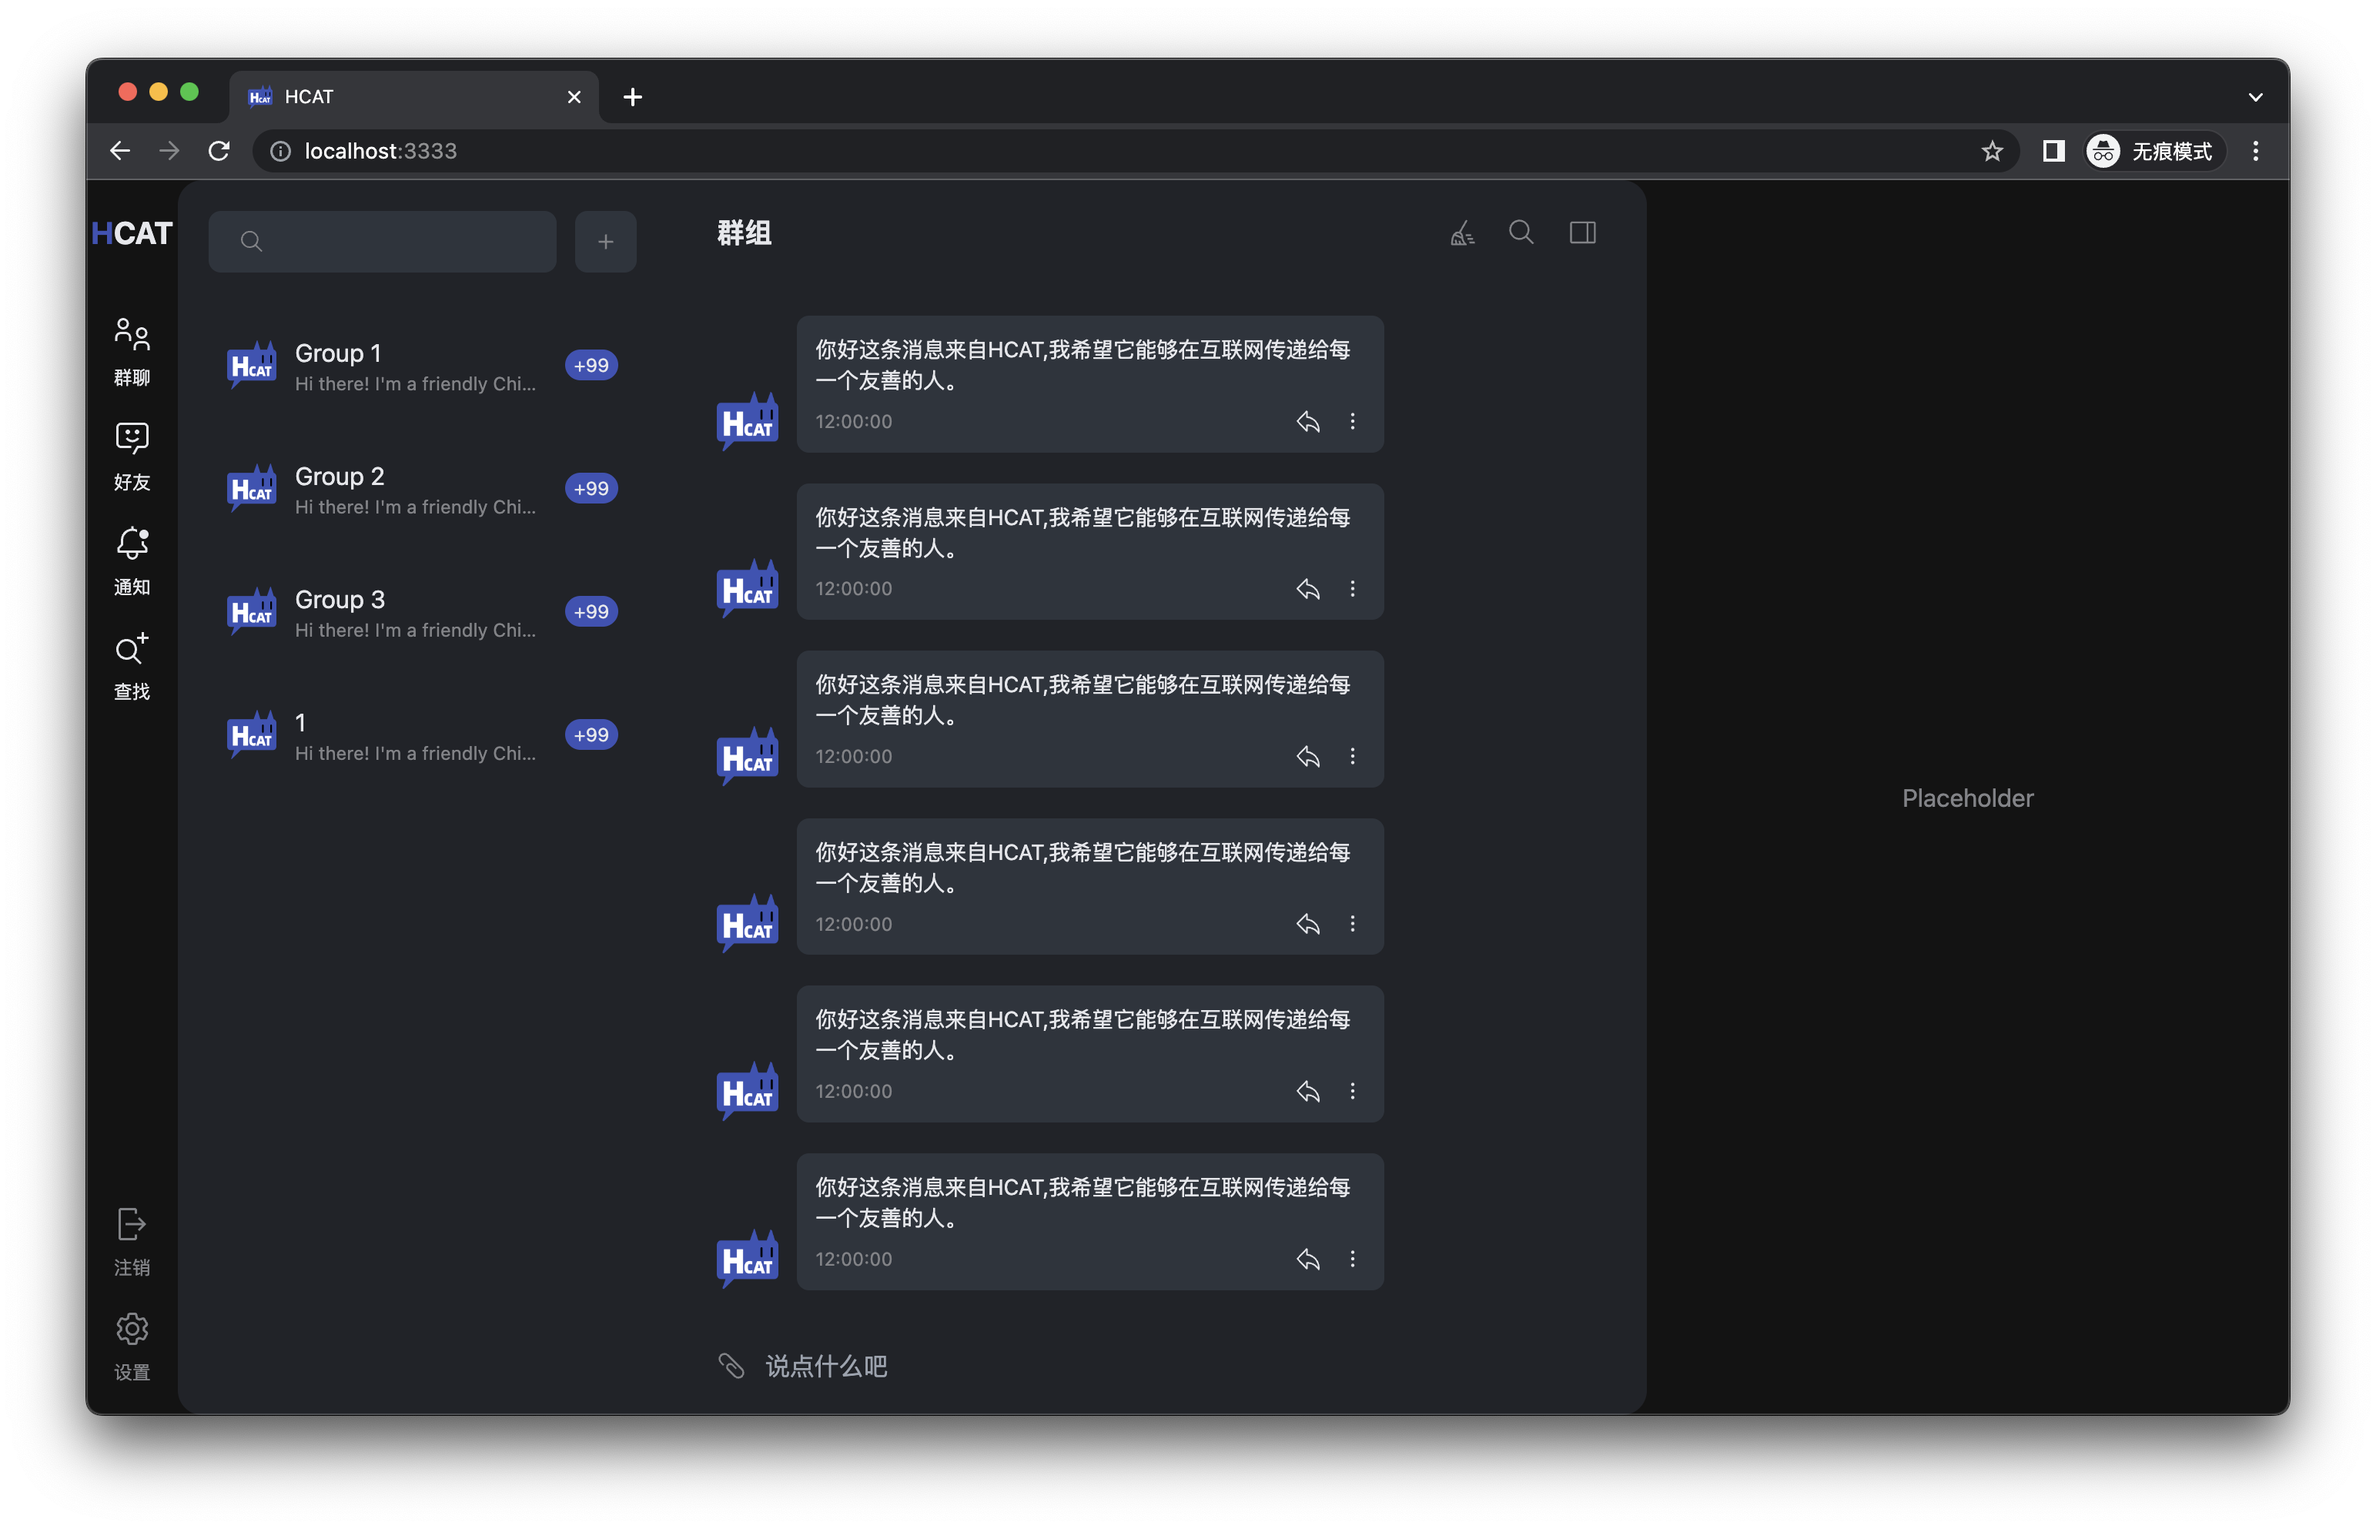
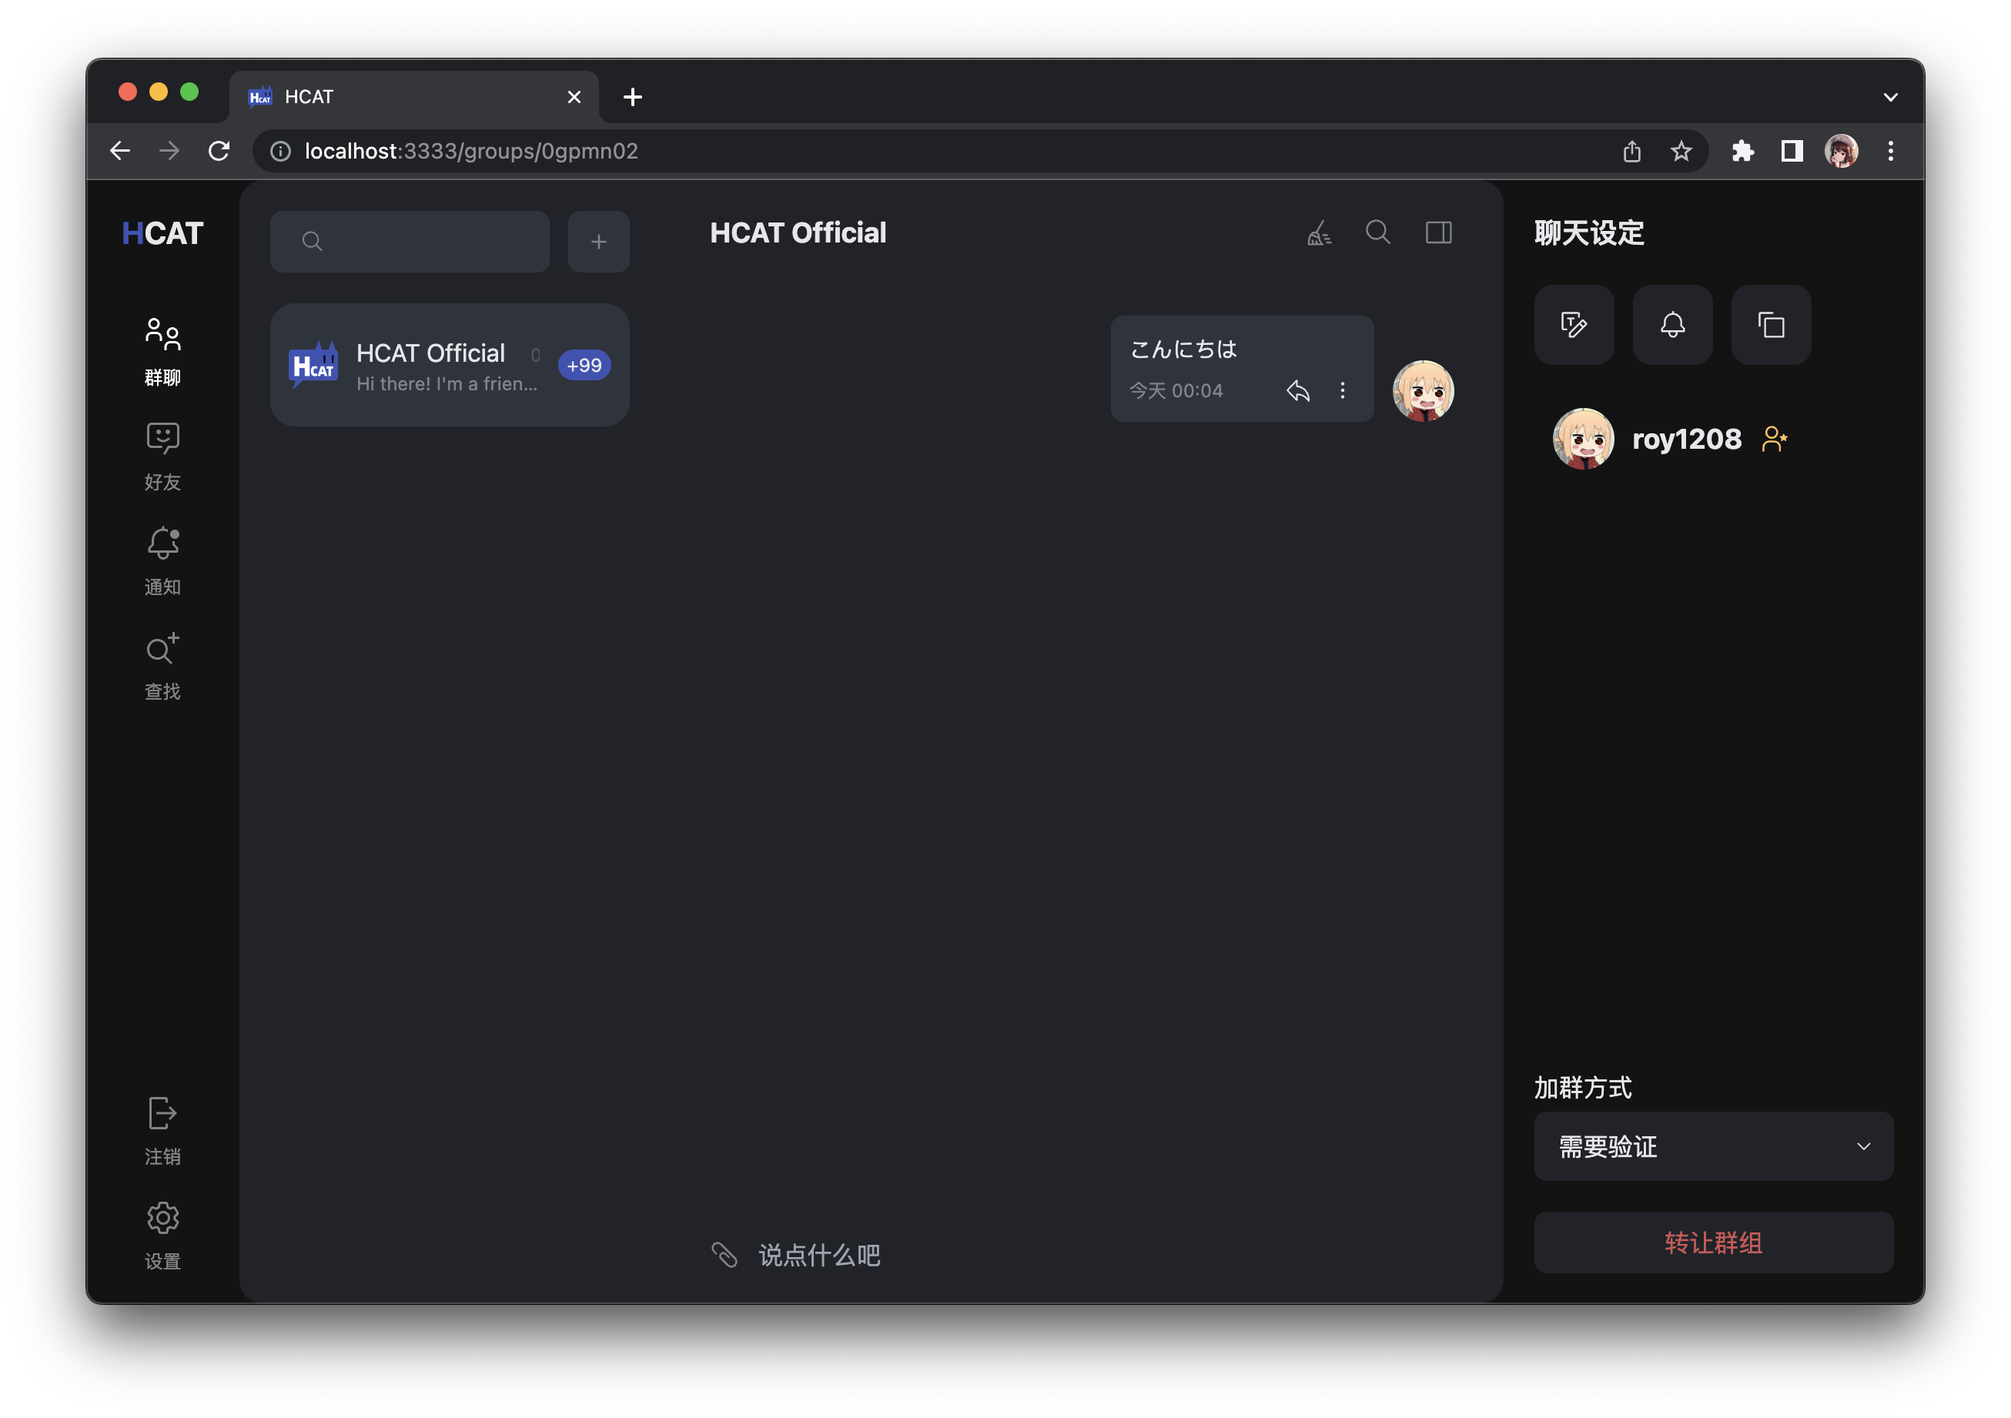
chore: add pages & update README.md

diff --git a/src/pages/index.vue b/src/pages/index.vue
@@ -8,6 +8,7 @@ interface SidebarButton {
 
 const store = useStore()
 const router = useRouter()
+const route = useRoute()
 const joinGroupID = $ref('')
 const addMessage = $ref('')
 const sideBarButtonList: SidebarButton[] = [
@@ -31,12 +32,9 @@ const sideBarButtonList: SidebarButton[] = [
 
 let joinGPModalVisible = $ref(false)
 
-onMounted(async () => {
-  // await store.authToken()
-  //   .catch((_) => {
-  //     alert('请先登录')
-  //     router.push('/login')
-  //   })
+onMounted(() => {
+  if (route.path.includes('groups'))
+    store.activeTab = 0
 })
 
 async function joinGroup() {
@@ -84,11 +82,16 @@ async function joinGroup() {
 function sideBarAction(index: number) {
   switch (index) {
     case 0:
+      store.activeTab = 0
       router.push('/groups')
       break
     case 1:
+      store.activeTab = 1
+      router.push('/friends')
       break
     case 2:
+      store.activeTab = 2
+      router.push('/notifications')
       break
     case 3:
       joinGPModalVisible = true
@@ -111,7 +114,7 @@ async function logout() {
         <span text-primary>H</span>CAT
       </button>
       <div flex-1 flex="~ col" gap-5>
-        <button v-for="item, index in sideBarButtonList" :key="item.text" flex="~ col" items-center text-xs gap-2 @click="sideBarAction(index)">
+        <button v-for="item, index in sideBarButtonList" :key="item.text" :class="[store.activeTab === index ? 'text-text-light' : 'text-text-secondary']" flex="~ col" items-center text-xs gap-2 @click="sideBarAction(index)">
           <div w-6 h-6 :class="item.icon" />
           <p>{{ item.text }}</p>
         </button>

diff --git a/src/stores/store.ts b/src/stores/store.ts
@@ -1,5 +1,5 @@
 import { defineStore } from 'pinia'
-import { authTokenApi, changeGroupSettingApi, createGroupApi, getGroupListApi, getGroupMembersApi, getGroupSettingApi, getGroupVerificationApi, getSelfPmsInGroupApi, joinGroupApi, loginApi, logoutApi, registerApi, sendGroupMsgApi } from '~/api'
+import { authTokenApi, changeGroupSettingApi, createGroupApi, getGroupListApi, getGroupMembersApi, getGroupSettingApi, getGroupVerificationApi, getSelfPmsInGroupApi, joinGroupApi, leaveGroupApi, loginApi, logoutApi, registerApi, sendGroupMsgApi } from '~/api'
 import { setCookie } from '~/composables'
 import type { ActiveChat, Group, GroupList, GroupMembers, GroupSetting } from '~/types'
 
@@ -44,6 +44,7 @@ export const useStore = defineStore('stores', {
     } as ActiveChat,
     groupList: {
     } as GroupList,
+    activeTab: -1,
   }),
   actions: {
     login(form: LoginForm) {
@@ -193,6 +194,17 @@ export const useStore = defineStore('stores', {
         execute({ data: { group_id: groupId } }).then((res) => {
           if (res.data.value.status === 'ok')
             resolve(res.data.value.data)
+          else
+            reject(res.data.value.message)
+        })
+      })
+    },
+    leaveGroup(groupId: string) {
+      return new Promise((resolve, reject) => {
+        const { execute } = leaveGroupApi()
+        execute({ data: { group_id: groupId } }).then((res) => {
+          if (res.data.value.status === 'ok')
+            resolve(res.data.value)
           else
             reject(res.data.value.message)
         })

diff --git a/src/pages/index/groups/[id].vue b/src/pages/index/groups/[id].vue
@@ -81,6 +81,17 @@ async function changeGroupSetting() {
     alert(err)
   })
 }
+
+async function leaveGroup() {
+  await store.leaveGroup(store.activeChat.id).then((res) => {
+    // alert('已退出群聊')
+    // store.getGroupList()
+    // store.activeChat.type = 'none'
+    // store.activeChat.id = ''
+  }).catch((err) => {
+    alert(err)
+  })
+}
 </script>
 
 <template>
@@ -157,11 +168,15 @@ async function changeGroupSetting() {
             </option>
           </select>
         </div>
+        <!-- <div v-if="(store.activeChat.permission === 'owner' || store.activeChat.permission === 'admin') && store.activeChat.setting?.verification_method === 'aw'" flex="~ col" gap-1>
+          <TextInput v-model="store.activeChat.setting!.question" label="问题" />
+          <TextInput v-model="store.activeChat.setting!.answer" label="答案" />
+        </div> -->
       </div>
       <button v-if="store.activeChat.permission === 'owner'" bg-back-gray w-full py-2 rounded-lg hover="bg-back-light" text-important>
         转让群组
       </button>
-      <button bg-back-gray w-full py-2 rounded-lg hover="bg-back-light" text-important>
+      <button v-if="store.activeChat.permission !== 'owner'" bg-back-gray w-full py-2 rounded-lg hover="bg-back-light" text-important @click="leaveGroup">
         离开群组
       </button>
     </div>

diff --git a/src/components/ChatBubble.vue b/src/components/ChatBubble.vue
@@ -10,7 +10,7 @@ withDefaults(defineProps<{
 
 <template>
   <div flex items-end gap-3 :class="{ 'flex-row-reverse': fromSelf }">
-    <img w-10 h-10 rounded-lg src="/logo.png">
+    <img w-10 h-10 rounded-full src="/avator.jpeg">
     <div bg-back-light p="x-3 y3" rounded-lg max-w="2/3" text="sm start" flex="~ col" gap-2>
       <div break-all>
         {{ message }}

diff --git a/src/pages/index/notifications.vue b/src/pages/index/notifications.vue
@@ -5,7 +5,13 @@
   <div w-full h-full flex="~ col" items-center justify-center gap2>
     <img src="/logo.png" w-20 h-20>
     <p text="2xl primary" font-bold>
-      G<span text-light>ROUPS</span>
+      N<span text-light>OTIFICATIONS</span>
     </p>
   </div>
 </template>
+
+<route lang="yaml">
+name: notification
+meta:
+  requiresAuth: true
+</route>

diff --git a/src/pages/index/friends.vue b/src/pages/index/friends.vue
@@ -5,7 +5,13 @@
   <div w-full h-full flex="~ col" items-center justify-center gap2>
     <img src="/logo.png" w-20 h-20>
     <p text="2xl primary" font-bold>
-      G<span text-light>ROUPS</span>
+      F<span text-light>RIENDS</span>
     </p>
   </div>
 </template>
+
+<route lang="yaml">
+name: friends
+meta:
+  requiresAuth: true
+</route>

diff --git a/src/api/index.ts b/src/api/index.ts
@@ -77,3 +77,9 @@ export function getGroupMembersApi() {
     method: 'POST',
   })
 }
+
+export function leaveGroupApi() {
+  return useAxiosApi('/group/leave', {
+    method: 'POST',
+  })
+}

diff --git a/README.md b/README.md
@@ -10,7 +10,6 @@ hcat-client客户端的vue版本，仍在开发中。
 
 # 预览
 <!-- 插入图片 -->
-![](./public/login.png)
 ![](./public/chat.png)
 
 # 功能
